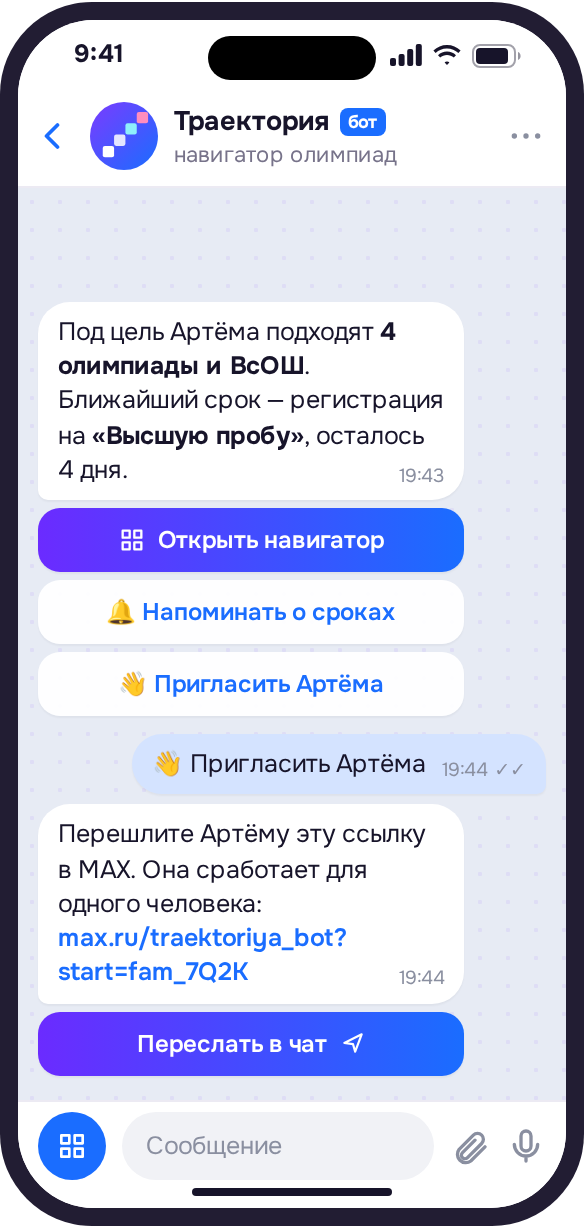
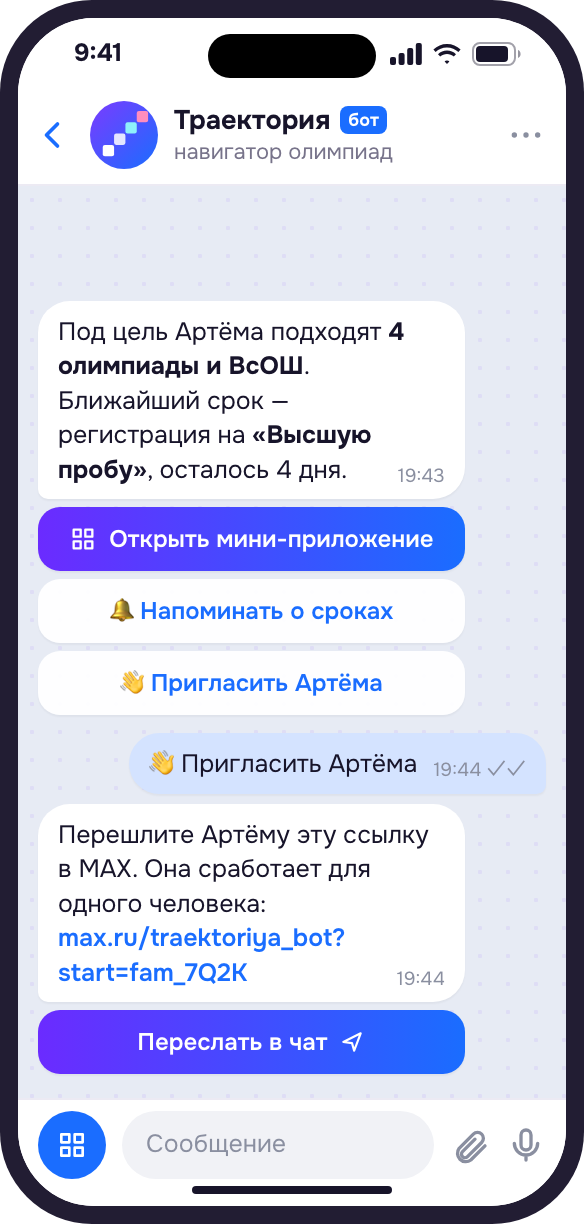
chore: мини-приложение вместо «навигатора» в текстах бота и документации
Кнопка «Открыть мини-приложение», пункт меню «Мини-приложение», подписи в
итоге онбординга и ответах бота. Тот же термин в ТЗ, списке функций,
юзер-флоу, прототипе и лендинге; экраны A7, A8, B3, B4, I5 пересняты.
Меню /menu в прототипе разложено как у бота: мини-приложение отдельной
строкой. «Навигатор по олимпиадам» как описание продукта оставлен.

diff --git a/apps/landing/index.html b/apps/landing/index.html
@@ -131,8 +131,8 @@
 
   <section class="features" id="features" aria-labelledby="features-title">
     <div class="wrap">
-      <h2 id="features-title">Что умеет навигатор</h2>
-      <p class="lead">Мини-приложение открывается поверх чата, и&nbsp;профиль в&nbsp;нём уже заполнен ответами из&nbsp;диалога.</p>
+      <h2 id="features-title">Что умеет мини-приложение</h2>
+      <p class="lead">Оно открывается поверх чата, и&nbsp;профиль в&nbsp;нём уже заполнен ответами из&nbsp;диалога.</p>
       <div class="tabs" data-tabs>
         <div class="tab-list" role="tablist" aria-label="Возможности" hidden>
           <button role="tab" id="t-match" aria-controls="p-match" aria-selected="true">Подбор</button>
@@ -264,7 +264,7 @@
     <div class="faq-list">
       <details name="faq">
         <summary>Нужно&nbsp;ли что-то устанавливать?<svg aria-hidden="true"><use href="#i-plus"/></svg></summary>
-        <p>Нет. Бот и&nbsp;навигатор работают внутри MAX: достаточно открыть чат с&nbsp;ботом. Навигатор открывается поверх чата, профиль в&nbsp;нём уже заполнен ответами из&nbsp;диалога.</p>
+        <p>Нет. Бот и&nbsp;мини-приложение работают внутри MAX: достаточно открыть чат с&nbsp;ботом. Мини-приложение открывается поверх чата, профиль в&nbsp;нём уже заполнен ответами из&nbsp;диалога.</p>
       </details>
       <details name="faq">
         <summary>Что такое БВИ?<svg aria-hidden="true"><use href="#i-plus"/></svg></summary>

diff --git a/apps/bot/internal/bot/result.go b/apps/bot/internal/bot/result.go
@@ -77,7 +77,7 @@ func directionText(v voice.Voice, tr store.Trajectory) string {
 }
 
 // resultText — «Под твою цель подходят 4 олимпиады и ВсОШ. Ближайший срок —
-// регистрация на олимпиаду «Высшая проба», осталось 4 дня. В навигаторе…»
+// регистрация на олимпиаду «Высшая проба», осталось 4 дня. В мини-приложении…»
 // Цифры — из того же подбора, что экран «Подбор» (core/pick).
 func (b *Bot) resultText(t *turn, v voice.Voice, tr store.Trajectory) (string, pick.Result, error) {
 	res, err := pick.Recommend(t.ctx, b.store, tr, b.now(), "all")
@@ -132,7 +132,7 @@ func (b *Bot) resultText(t *turn, v voice.Voice, tr store.Trajectory) (string, p
 	return strings.Join(parts, " "), res, nil
 }
 
-// resultKeyboard — «Открыть навигатор», «Напоминать о сроках», «Пригласить…» (F11).
+// resultKeyboard — «Открыть мини-приложение», «Напоминать о сроках», «Пригласить…» (F11).
 func (b *Bot) resultKeyboard(v voice.Voice, m store.Member, remindersOn bool) maxapi.Keyboard {
 	remind := maxapi.CallbackButton(v.T("bot.btn.remind", nil), "rem:on")
 	if remindersOn {
@@ -164,7 +164,7 @@ func (b *Bot) sendResult(t *turn, m store.Member, v voice.Voice, tr store.Trajec
 
 // remindOn — «Напоминать о сроках» (F11): все четыре порога. Если трекер
 // пуст и пользователь может его пополнять, в него попадает подборка —
-// иначе напоминать было бы не о чем. Лишнее убирается в навигаторе.
+// иначе напоминать было бы не о чем. Лишнее убирается в мини-приложении.
 func (b *Bot) remindOn(t *turn, cb *maxapi.Callback, question *maxapi.Message) error {
 	m, ok, err := b.member(t)
 	if err != nil {

diff --git a/apps/bot/internal/bot/bot_test.go b/apps/bot/internal/bot/bot_test.go
@@ -177,7 +177,7 @@ func TestKidOnboarding_CreatesTrajectoryAndShowsResult(t *testing.T) {
 	summary := sent[len(sent)-2].Msg.Text
 	if summary != "Готово: Артём, 9 класс, Республика Татарстан. Предметы: информатика, математика. "+
 		"Цель: программная инженерия, информатика и вычислительная техника. Вузы: ВШЭ, Иннополис. "+
-		"Всё это можно поменять в профиле навигатора." {
+		"Всё это можно поменять в профиле мини-приложения." {
 		t.Fatalf("сводка: %q", summary)
 	}
 	result := h.fake.Last(artem.UserID)

diff --git a/packages/shared/maxapi/client_test.go b/packages/shared/maxapi/client_test.go
@@ -48,7 +48,7 @@ func TestSend_TokenInHeaderAndKeyboardShape(t *testing.T) {
 		_, _ = w.Write([]byte(`{"message":{"body":{"mid":"mid.1","text":"x"},"recipient":{"chat_id":1,"chat_type":"dialog"}}}`))
 	})
 	kb := Keyboard{Row(CallbackButton("Я школьник", "role:kid"), CallbackButton("Я родитель", "role:parent")),
-		Row(OpenAppButton("Открыть навигатор", "t356_hakaton_max_bot", 426643746, "home"))}
+		Row(OpenAppButton("Открыть мини-приложение", "t356_hakaton_max_bot", 426643746, "home"))}
 	mid, err := c.Send(context.Background(), 900000001, WithKeyboard("Кто ты?", kb))
 	if err != nil || mid != "mid.1" {
 		t.Fatalf("%q %v", mid, err)

diff --git a/docs/TZ.md b/docs/TZ.md
@@ -156,7 +156,7 @@
 - Тогда: бот пишет, сколько олимпиад подходит и когда ближайший срок: «Под твою цель подходят 4 олимпиады и ВсОШ. Ближайший срок — регистрация на «Высшую пробу», осталось 4 дня».
 - Негатив: подходящих олимпиад нет → бот честно говорит об этом и предлагает добавить предмет или вуз.
 
-**F11. Кнопки «Открыть навигатор», «Напоминать о сроках», «Пригласить в семью».** Кнопка открытия — тип `open_app`. «Напоминать о сроках» включает напоминания и присылает подтверждение с графиком. У родителя третья кнопка называется «Пригласить Артёма».
+**F11. Кнопки «Открыть мини-приложение», «Напоминать о сроках», «Пригласить в семью».** Кнопка открытия — тип `open_app`. «Напоминать о сроках» включает напоминания и присылает подтверждение с графиком. У родителя третья кнопка называется «Пригласить Артёма».
 
 **F12. Мини-приложение открывается поверх чата, профиль уже заполнен.** Экран A8. Сплэш показывается, пока идёт проверка initData и загрузка данных, не дольше 2,5 с на 4G.
 
@@ -284,7 +284,7 @@
 - Не создатель: «Удалить траекторию может только её создатель — Ольга» и кнопка «Выйти из траектории».
 
 **F51. Команды /start, /menu, /help, /settings.** Экран I5.
-- /menu — кнопки «Навигатор» (open_app), «Трекер», «Семья», «Настройки».
+- /menu — кнопки «Мини-приложение» (open_app), «Трекер», «Семья», «Настройки».
 - /help — список команд.
 - /settings — какие напоминания присылать: за месяц, неделю, 3 дня, 1 день (у каждого участника свои настройки).
 - Команды регистрируются в меню бота.

diff --git a/README.md b/README.md
@@ -39,7 +39,7 @@
    тогда три вопроса об интересах) → вузы. Бот покажет итог и подборку с
    ближайшим сроком.
 3. «🔔 Напоминать о сроках» — включает напоминания за 30, 7, 3 и 1 день; если
-   трекер пуст, в него попадает подборка. «Открыть навигатор» — мини-приложение.
+   трекер пуст, в него попадает подборка. «Открыть мини-приложение» открывает его поверх чата.
 4. В мини-приложении: «Главная» → «Подбор» → карточка олимпиады (уровень профиля,
    льготы в ваших вузах, этапы, источник) → добавить в трекер → «Трекер» (список
    и календарь, отметка регистрации) → «Каталог» (олимпиады и вузы) → «Семья» →
@@ -377,7 +377,7 @@ go run ./apps/bot/cmd/setup -webhook "$(cd infra/terraform && tofu output -raw w
 - **Три вопроса об интересах (F8) — без LLM**: каждый ответ голосует за профильную
   группу, детерминированно и мгновенно.
 - **«Напоминать о сроках» пополняет пустой трекер подборкой** — иначе напоминать
-  не о чем; лишнее убирается в навигаторе.
+  не о чем; лишнее убирается в мини-приложении.
 - **ИИ-помощник понимает термины** (БВИ, 100 баллов, уровни перечня) по отдельной
   карточке-глоссарию, а не только вопросы о конкретных олимпиадах и вузах.
 - **События изменения контента рождаются в базе** (триггеры на этапы и льготы) —

diff --git a/apps/landing/README.md b/apps/landing/README.md
@@ -42,7 +42,7 @@ node --test apps/landing/landing.test.mjs
 
 **Без JS страница работает целиком.** Скрипт ставит класс `js` сам, поэтому, если
 он не загрузится, скрытые до появления блоки не останутся невидимыми, а панели
-«Что умеет навигатор» просто пойдут списком.
+«Что умеет мини-приложение» просто пойдут списком.
 
 **Движение.** Один авторский момент — вход hero: лесенка вырастает, экраны
 выезжают. Остальное — тихое проявление при прокрутке. При

diff --git a/docs/функции.md b/docs/функции.md
@@ -13,7 +13,7 @@
 
 **Результат**
 10. Итоговое сообщение: сколько олимпиад подходит и когда ближайший срок
-11. Кнопки «Открыть навигатор», «Напоминать о сроках» и «Пригласить в семью»
+11. Кнопки «Открыть мини-приложение», «Напоминать о сроках» и «Пригласить в семью»
 12. Мини-приложение открывается поверх чата, профиль уже заполнен
 
 **Подбор олимпиад**
